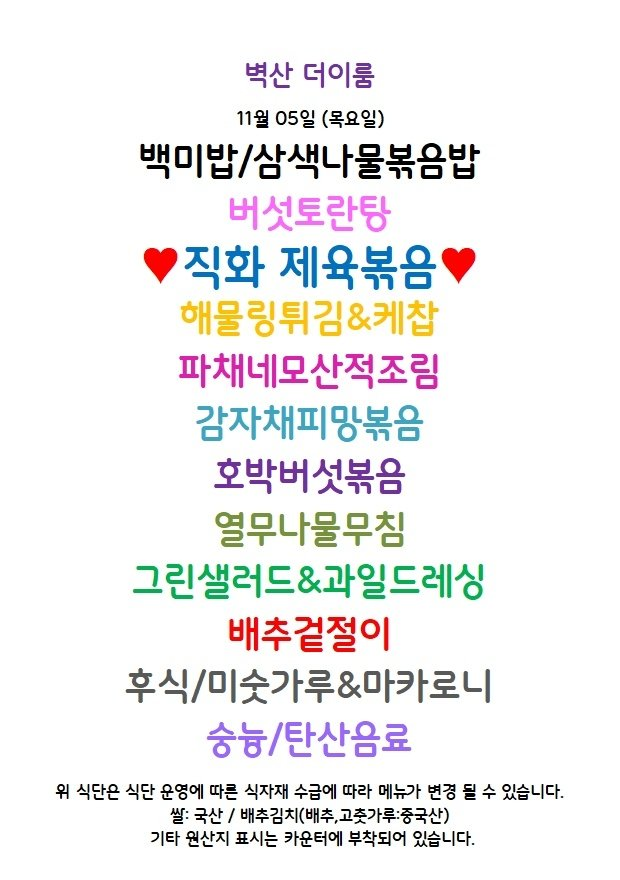
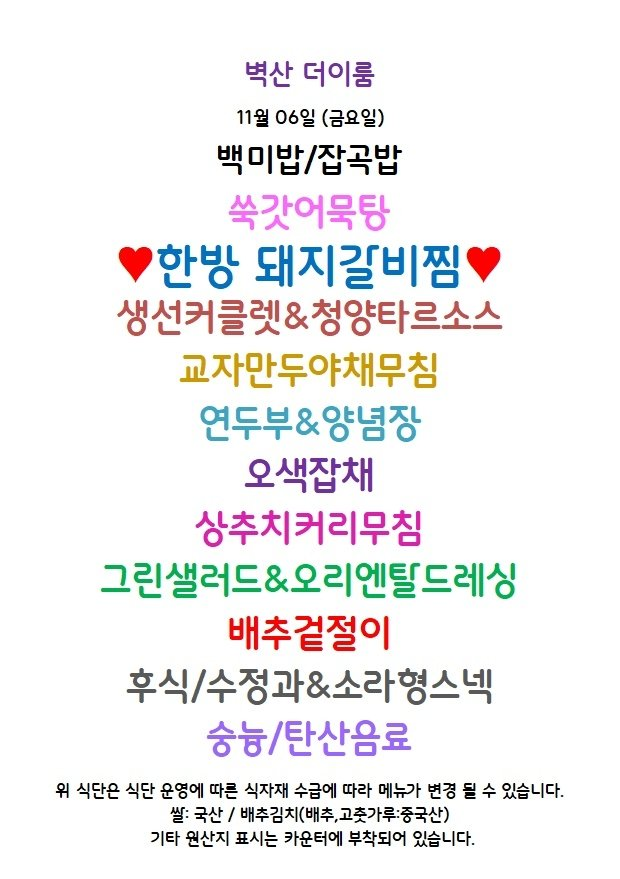
Update menu board assets

diff --git a/guro-menu/index.html b/guro-menu/index.html
@@ -32,7 +32,7 @@
   </header>
   <section class="meta">
     <div><small>기준 날짜</small><strong>2026년 11월 6일 금요일</strong></div>
-    <div><small>최종 갱신</small><strong>2026-11-06 09:03:43</strong></div>
+    <div><small>최종 갱신</small><strong>2026-11-06 09:13:40</strong></div>
     <div><small>등록 식당</small><strong>5개</strong></div>
   </section>
   <div class="notice">공개 카카오 채널의 메뉴 이미지를 자동 수집하고 OCR로 정리합니다. 텍스트에 오타가 있을 수 있으니 식단 이미지를 함께 확인해 주세요.</div>
@@ -89,8 +89,8 @@
           <a class="channel" href="https://pf.kakao.com/_xdLzxgG" target="_blank" rel="noopener">원본 채널</a>
         </div>
         <img class="menu-image" src="./images/byucksan-theirum.png" alt="벽산더이룸 식단 이미지" loading="lazy">
-        <p class="message">최신 공개 식단 이미지의 텍스트입니다. 날짜는 원본 이미지를 확인해 주세요.</p>
-        <ul><li>백미밥/삼색나물볶음밥</li><li>버섯토란탕</li><li>직화 제육볶음</li><li>파채네모산적조림</li><li>감자채피망볶음</li><li>호박버섯볶음</li><li>열무나물무침</li><li>그린샐러드&amp;/과일드레싱</li><li>배추겉절이</li><li>후식/미숫가루&amp;마카로니</li><li>숭늉/탄산음료</li><li>A 국산 / 배추김치(배추,고추가루:중국산)</li><li>기타 원산지 표시는 카운터에 부착되어 있습니다</li></ul>
+        
+        <ul><li>백미밥/잡곡밥</li><li>생선커클렛&amp;청양타르소스</li><li>교자만두야채무침</li><li>연두부&amp;양념장</li><li>오색잡채</li><li>상추치커리무침</li><li>그린샐러드&amp;오리엔틸드레싱</li><li>배추겉절이</li><li>후식/수정과&amp;소라형스넥</li><li>숭늉/탄산음료</li><li>Afi 국산 / 배추김치(배추,고추가루:중국산)</li><li>기타 원산지 표시는 카운터에 부착되어 있습니다</li></ul>
       </article>
 
       <article class="restaurant-card">

diff --git a/menu-today/index.html b/menu-today/index.html
@@ -209,7 +209,7 @@
 
     <section class="meta-bar">
       <div class="meta-card"><div class="meta-label">기준 날짜</div><div class="meta-value">2026년 11월 6일 금요일</div></div>
-      <div class="meta-card"><div class="meta-label">최종 가져온 시간</div><div class="meta-value">2026-11-06 09:03:30</div></div>
+      <div class="meta-card"><div class="meta-label">최종 가져온 시간</div><div class="meta-value">2026-11-06 09:13:25</div></div>
       <div class="meta-card"><div class="meta-label">확인 완료</div><div class="meta-value">9개 식당</div></div>
       <div class="meta-card"><div class="meta-label">준비중</div><div class="meta-value">3개 채널</div></div>
     </section>
@@ -225,7 +225,7 @@
             <div class="sub">현대테라타워 가산DK</div>
           </div>
         </div>
-        <div class="menu-inline-image"><img src="./images/imeal.png" alt="아이밀 식단 이미지"></div><ul><li>소고기못국</li><li>수제통살치킨버거</li><li>치즈스틱</li><li>크림파스타</li><li>콘샐러드</li><li>숙주나물</li><li>가든샐러드</li><li>볶음김치</li><li>백미밥 / 흑미밥</li><li>부으 기</li><li>타사은료</li></ul>
+        <div class="menu-inline-image"><img src="./images/imeal.png" alt="아이밀 식단 이미지"></div><ul><li>소고기못국</li><li>수제통살치킨버거</li><li>치즈스틱</li><li>크림파스타</li><li>콘샐러드</li><li>숙주나물</li><li>가든샐러드 &amp; 오렌지D</li><li>볶음김치</li><li>백미밥 / 흑미밥</li><li>부으 기</li><li>타사은료</li></ul>
       </article>
 
       <article class="restaurant-card">
